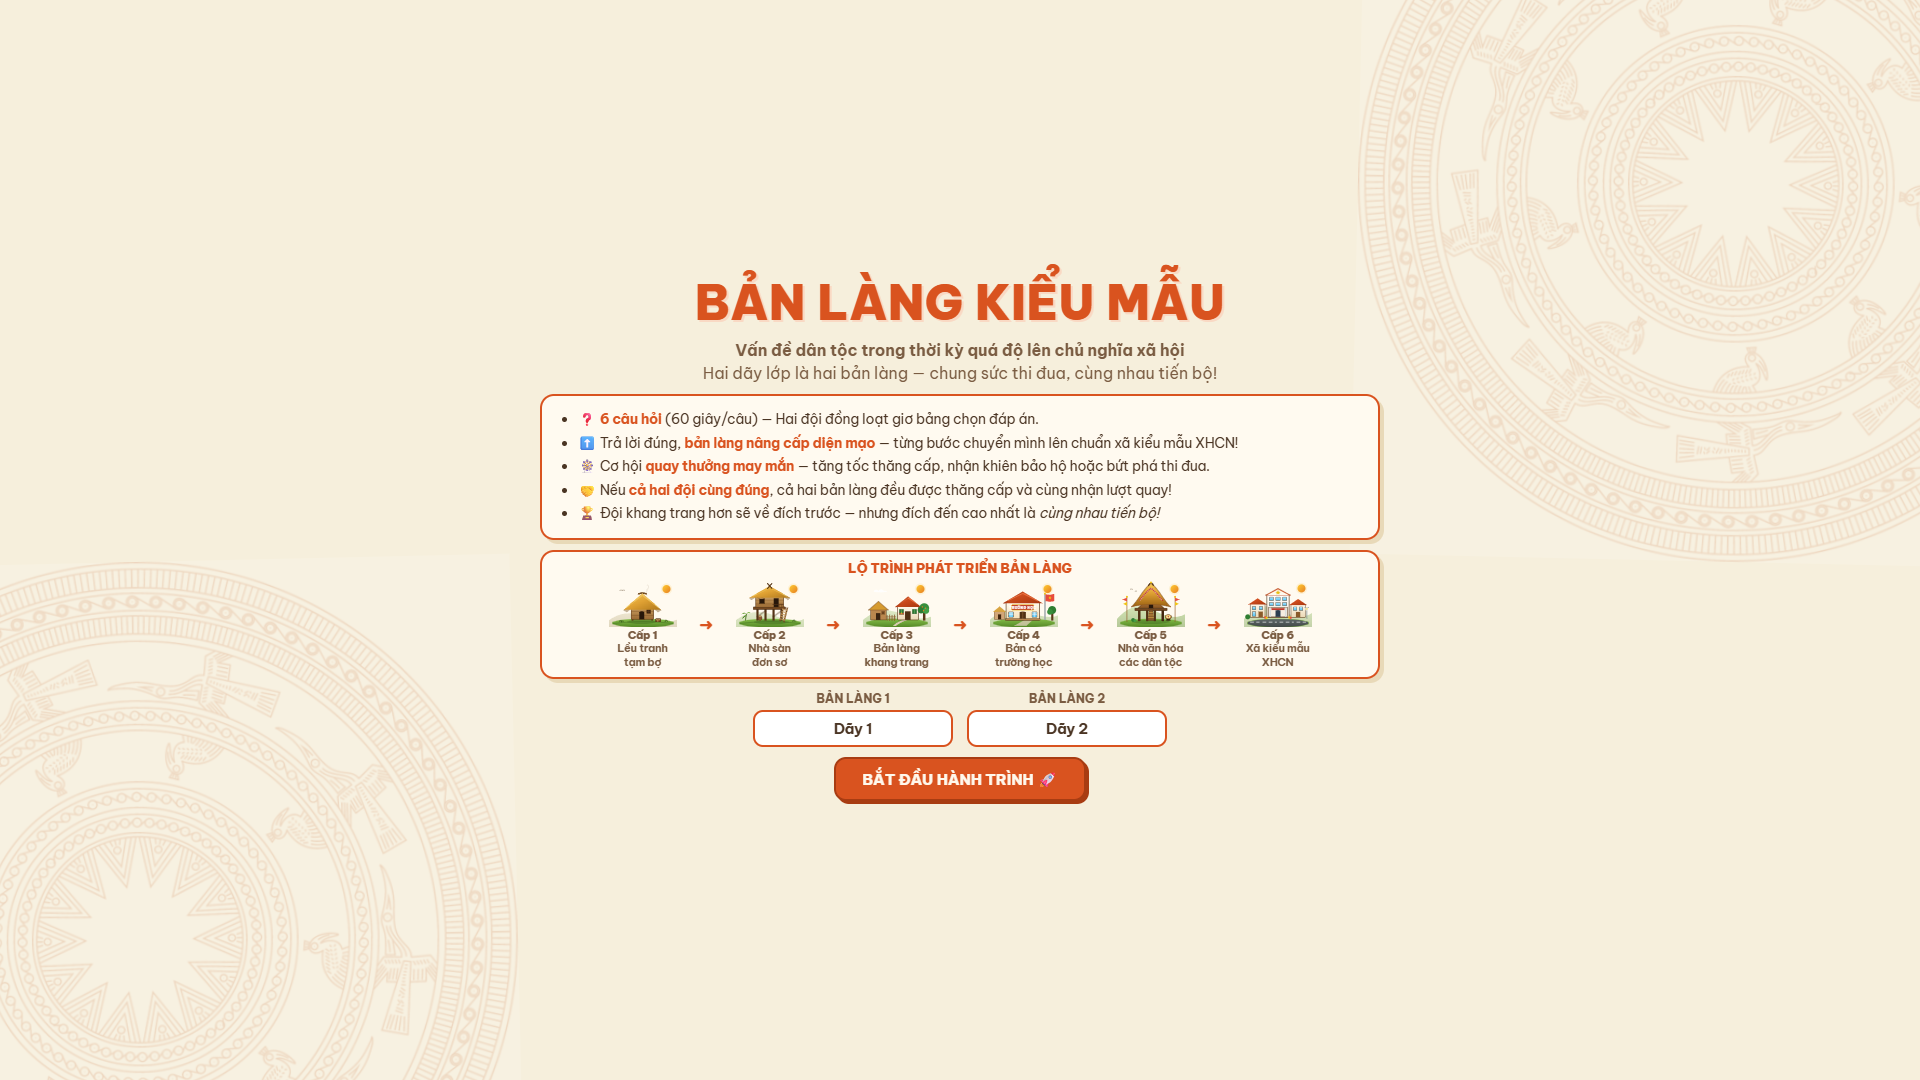
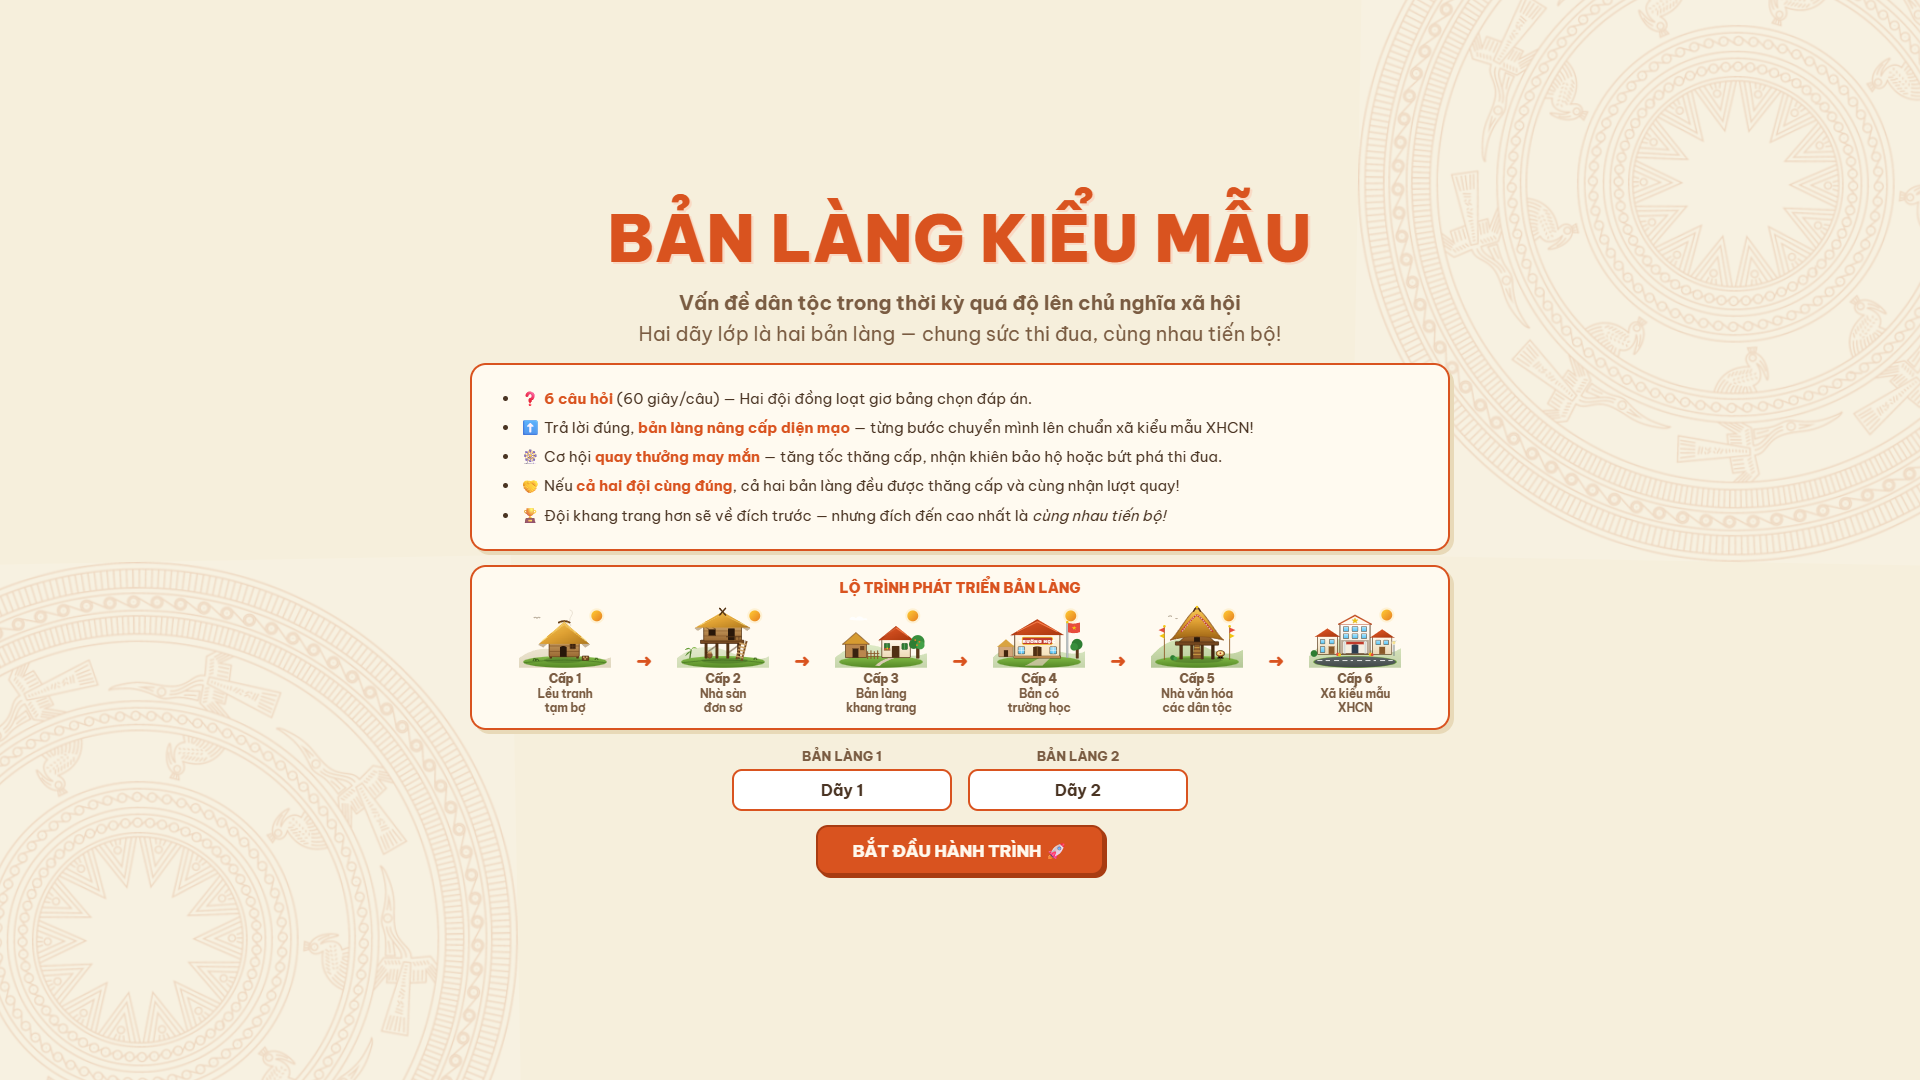
style: tối ưu tỷ lệ hiển thị màn hình bắt đầu, bổ sung mockup slide trình chiếu

Changed region(s): [[0.25, 0.1528, 0.7812, 0.825], [0.75, 0.6417, 0.7812, 0.6722]]

diff --git a/render_mockup.html b/render_mockup.html
@@ -10,13 +10,13 @@
     justify-content: center;
     align-items: center;
     min-height: 100vh;
-    padding: 60px 80px 90px;
+    padding: 40px 60px 80px;
     font-family: -apple-system, BlinkMacSystemFont, "Segoe UI", Roboto, sans-serif;
   }
 
   .macbook {
     position: relative;
-    width: 1400px;
+    width: 1320px;
     display: flex;
     flex-direction: column;
     align-items: center;
@@ -25,15 +25,15 @@
   /* --- SCREEN LID --- */
   .lid {
     position: relative;
-    width: 1200px;
-    height: 750px;
-    background: #0f1012;
-    border-radius: 20px 20px 4px 4px;
-    padding: 14px 14px 20px 14px;
+    width: 1220px;
+    height: 708px;
+    background: #18191b;
+    border-radius: 18px 18px 3px 3px;
+    padding: 10px 10px 14px 10px;
     box-shadow:
-      inset 0 0 0 1.5px #484b50,
-      inset 0 1.5px 0 0.5px rgba(255,255,255,0.25),
-      0 0 1px 1px rgba(0,0,0,0.6);
+      inset 0 0 0 1px #3a3d42,
+      inset 0 1px 0 0.5px rgba(255,255,255,0.3),
+      0 0 1px 1px rgba(0,0,0,0.5);
     display: flex;
     flex-direction: column;
     align-items: center;
@@ -42,51 +42,49 @@
   /* Display bezel & screen */
   .screen-frame {
     position: relative;
-    width: 100%;
-    height: 100%;
-    border-radius: 10px 10px 4px 4px;
+    width: 1200px;
+    height: 675px;
+    border-radius: 10px;
     overflow: hidden;
-    background: #000;
-    box-shadow: inset 0 0 0 1px rgba(255,255,255,0.06);
+    background: #f6efdc;
   }
 
   .screen-frame img {
     width: 100%;
     height: 100%;
-    object-fit: contain;
-    background: #f6efdc;
+    object-fit: cover;
     display: block;
   }
 
   /* Camera notch */
   .camera-notch {
     position: absolute;
-    top: 14px;
+    top: 10px;
     left: 50%;
     transform: translateX(-50%);
-    width: 130px;
-    height: 16px;
-    background: #0f1012;
-    border-bottom-left-radius: 8px;
-    border-bottom-right-radius: 8px;
+    width: 110px;
+    height: 14px;
+    background: #18191b;
+    border-bottom-left-radius: 7px;
+    border-bottom-right-radius: 7px;
     z-index: 10;
     display: flex;
     align-items: center;
     justify-content: center;
-    gap: 8px;
+    gap: 7px;
   }
   .lens {
-    width: 6px;
-    height: 6px;
+    width: 5px;
+    height: 5px;
     border-radius: 50%;
-    background: #040810;
-    box-shadow: inset 0 0 2px #1e3a60, 0 0 1px rgba(255,255,255,0.2);
+    background: #020509;
+    box-shadow: inset 0 0 1.5px #1e3a60, 0 0 1px rgba(255,255,255,0.25);
   }
   .sensor {
-    width: 3.5px;
-    height: 3.5px;
+    width: 3px;
+    height: 3px;
     border-radius: 50%;
-    background: #081208;
+    background: #051008;
     box-shadow: 0 0 1px rgba(0,255,100,0.4);
   }
 
@@ -95,11 +93,11 @@
     position: absolute;
     inset: 0;
     background: linear-gradient(
-      128deg,
-      rgba(255, 255, 255, 0.16) 0%,
-      rgba(255, 255, 255, 0.08) 22%,
-      rgba(255, 255, 255, 0.02) 36%,
-      transparent 45%
+      126deg,
+      rgba(255, 255, 255, 0.18) 0%,
+      rgba(255, 255, 255, 0.08) 20%,
+      rgba(255, 255, 255, 0.015) 34%,
+      transparent 42%
     );
     pointer-events: none;
     z-index: 5;
@@ -107,26 +105,25 @@
 
   /* --- HINGE --- */
   .hinge {
-    width: 340px;
-    height: 8px;
-    background: linear-gradient(180deg, #0a0a0c 0%, #1c1d20 100%);
+    width: 320px;
+    height: 7px;
+    background: linear-gradient(180deg, #0e0f11 0%, #1e1f22 100%);
     border-radius: 0 0 3px 3px;
     margin-top: -2px;
     z-index: 2;
-    box-shadow: inset 0 1px 1px rgba(0,0,0,0.8);
   }
 
   /* --- BASE / CHASSIS --- */
   .base {
     position: relative;
-    width: 1380px;
-    height: 22px;
-    background: linear-gradient(180deg, #e1e4e8 0%, #bcc1c8 45%, #8f949c 85%, #6a6e75 100%);
+    width: 1300px;
+    height: 20px;
+    background: linear-gradient(180deg, #e4e7eb 0%, #bcc1c8 45%, #8c929a 85%, #666a72 100%);
     border-radius: 2px 2px 14px 14px;
     margin-top: -4px;
     z-index: 3;
     box-shadow:
-      inset 0 1.5px 0 rgba(255,255,255,0.9),
+      inset 0 1.5px 0 rgba(255,255,255,0.95),
       inset 0 -1px 2px rgba(0,0,0,0.4),
       0 2px 4px rgba(0,0,0,0.3);
   }
@@ -137,12 +134,12 @@
     top: 0;
     left: 50%;
     transform: translateX(-50%);
-    width: 150px;
-    height: 7px;
-    background: linear-gradient(180deg, #6c7077 0%, #a2a6ad 100%);
-    border-bottom-left-radius: 6px;
-    border-bottom-right-radius: 6px;
-    box-shadow: inset 0 1px 2px rgba(0,0,0,0.5);
+    width: 140px;
+    height: 6px;
+    background: linear-gradient(180deg, #5c6068 0%, #9a9ea6 100%);
+    border-bottom-left-radius: 5px;
+    border-bottom-right-radius: 5px;
+    box-shadow: inset 0 1px 1.5px rgba(0,0,0,0.5);
   }
 
   /* Feet */
@@ -152,11 +149,11 @@
     width: 100%;
     display: flex;
     justify-content: space-between;
-    padding: 0 90px;
+    padding: 0 80px;
     z-index: 1;
   }
   .foot {
-    width: 48px;
+    width: 44px;
     height: 4px;
     background: #1c1d1f;
     border-radius: 3px;
@@ -165,9 +162,9 @@
   /* --- REALISTIC SHADOW --- */
   .shadow-wrap {
     position: absolute;
-    bottom: -45px;
-    width: 1420px;
-    height: 70px;
+    bottom: -40px;
+    width: 1340px;
+    height: 65px;
     z-index: 0;
     pointer-events: none;
   }
@@ -176,7 +173,7 @@
     top: 0;
     left: 40px;
     right: 40px;
-    height: 18px;
+    height: 16px;
     background: rgba(30, 20, 10, 0.55);
     border-radius: 50%;
     filter: blur(8px);
@@ -184,12 +181,12 @@
   .ambient-shadow {
     position: absolute;
     top: 4px;
-    left: 20px;
-    right: 20px;
-    height: 45px;
-    background: rgba(50, 32, 18, 0.32);
+    left: 15px;
+    right: 15px;
+    height: 40px;
+    background: rgba(50, 32, 18, 0.3);
     border-radius: 50%;
-    filter: blur(24px);
+    filter: blur(22px);
   }
 </style>
 </head>

diff --git a/index.html b/index.html
@@ -31,20 +31,20 @@ p,li,.rules,.opt,#q-text,#end-msg{text-wrap:pretty;}
 .screen.active{display:block; animation:screenFade .25s ease-out;}
 @keyframes screenFade{from{opacity:0; transform:translateY(6px);} to{opacity:1; transform:translateY(0);}}
 /* ---------- START ---------- */
-#screen-start{text-align:center; padding:14px 20px 20px;}
+#screen-start{text-align:center; padding:20px 24px 26px;}
 #screen-start.active{display:flex; flex-direction:column; justify-content:center; align-items:center; min-height:100vh;}
-#screen-start h1{font-size:clamp(28px,4.2vw,48px); text-shadow:2px 2px 0 #f9d9c4; margin-bottom:2px;}
-.subtitle{font-size:clamp(13px,1.3vw,16px); color:var(--ink-soft); margin:4px auto 10px; max-width:840px; line-height:1.4; text-wrap:balance;}
-.rules{background:var(--card); border:2.5px solid var(--orange); border-radius:14px; padding:10px 20px;
-  max-width:840px; width:100%; margin:0 auto 10px; text-align:left; box-shadow:4px 4px 0 #e8d9b8;}
-.rules li{margin:4px 0 4px 16px; line-height:1.45; font-size:13.5px; text-wrap:balance;}
+#screen-start h1{font-size:clamp(38px,5.8vw,64px); text-shadow:2px 2px 0 #f9d9c4; margin-bottom:2px;}
+.subtitle{font-size:clamp(15px,1.9vw,20px); color:var(--ink-soft); margin:6px auto 14px; max-width:980px; line-height:1.55; text-wrap:balance;}
+.rules{background:var(--card); border:2.5px solid var(--orange); border-radius:16px; padding:16px 28px;
+  max-width:980px; width:100%; margin:0 auto 14px; text-align:left; box-shadow:4px 4px 0 #e8d9b8;}
+.rules li{margin:6px 0 6px 20px; line-height:1.55; font-size:15px; text-wrap:balance;}
 .rules b{color:var(--orange);}
-.team-inputs{display:flex; gap:14px; justify-content:center; flex-wrap:wrap; margin:2px 0 10px;}
-.team-inputs label{font-weight:800; text-transform:uppercase; font-size:12px; color:var(--ink-soft);}
-.team-inputs input{display:block; margin-top:4px; padding:7px 12px; font-size:14.5px; font-weight:700;
-  font-family:inherit; border:2.5px solid var(--orange); border-radius:10px; background:#fff; color:var(--ink); width:200px; text-align:center;}
+.team-inputs{display:flex; gap:16px; justify-content:center; flex-wrap:wrap; margin:4px 0 14px;}
+.team-inputs label{font-weight:800; text-transform:uppercase; font-size:13px; color:var(--ink-soft);}
+.team-inputs input{display:block; margin-top:5px; padding:9px 16px; font-size:16px; font-weight:700;
+  font-family:inherit; border:2.5px solid var(--orange); border-radius:10px; background:#fff; color:var(--ink); width:220px; text-align:center;}
 .btn{background:var(--orange); color:#fff8ec; border:2.5px solid var(--orange-d); border-radius:12px;
-  padding:10px 26px; font-family:inherit; font-weight:800; font-size:15px; text-transform:uppercase;
+  padding:12px 34px; font-family:inherit; font-weight:800; font-size:16.5px; text-transform:uppercase;
   cursor:pointer; box-shadow:3px 3px 0 var(--orange-d); transition:transform .12s;}
 .btn:hover{transform:translateY(-2px) scale(1.02);}
 .btn:active{transform:translateY(2px); box-shadow:1px 1px 0 var(--orange-d);}
@@ -179,14 +179,14 @@ p,li,.rules,.opt,#q-text,#end-msg{text-wrap:pretty;}
 #end-detail{text-align:center; font-size:17px; line-height:1.8; margin:16px 0;}
 #end-msg{background:var(--card); border:3px solid var(--gold); border-radius:16px; padding:18px; font-size:16px; line-height:1.8; text-align:center; margin:18px 0;}
 /* dải lộ trình nâng cấp ở màn hình bắt đầu */
-#tier-preview{max-width:840px; width:100%; margin:0 auto 10px; background:var(--card); border:2.5px solid var(--orange); border-radius:14px; padding:8px 12px; box-shadow:4px 4px 0 #e8d9b8;}
-.tp-title{font-weight:900; text-transform:uppercase; color:var(--orange); margin-bottom:5px; font-size:13px; text-wrap:balance;}
-.tp-row{display:flex; align-items:center; justify-content:center; gap:4px; flex-wrap:nowrap;}
+#tier-preview{max-width:980px; width:100%; margin:0 auto 14px; background:var(--card); border:2.5px solid var(--orange); border-radius:16px; padding:12px 16px; box-shadow:4px 4px 0 #e8d9b8;}
+.tp-title{font-weight:900; text-transform:uppercase; color:var(--orange); margin-bottom:8px; font-size:14px; text-wrap:balance;}
+.tp-row{display:flex; align-items:center; justify-content:center; gap:6px; flex-wrap:nowrap;}
 @media(max-width:860px){.tp-row{flex-wrap:wrap; gap:8px;}}
-.tp-card{width:105px; text-align:center; flex:0 1 auto;}
-.tp-card svg{width:100%; max-width:68px; height:auto; margin:0 auto; display:block;}
-.tp-name{font-size:10.5px; font-weight:700; margin-top:2px; line-height:1.25; min-height:28px; color:var(--ink-soft); text-wrap:balance; word-break:keep-all;}
-.tp-arrow{font-size:14px; color:var(--orange); font-weight:900; flex:none;}
+.tp-card{width:130px; text-align:center; flex:0 1 auto;}
+.tp-card svg{width:100%; max-width:92px; height:auto; margin:0 auto; display:block;}
+.tp-name{font-size:11.5px; font-weight:700; margin-top:4px; line-height:1.3; min-height:30px; color:var(--ink-soft); text-wrap:balance; word-break:keep-all;}
+.tp-arrow{font-size:16px; color:var(--orange); font-weight:900; flex:none;}
 .team .build-anim{font-size:60px;}
 .team .build-bar{max-width:230px; margin:8px auto 2px;}
 /* toast */

diff --git a/render_browser_mockup.html b/render_browser_mockup.html
@@ -1,0 +1,105 @@
+<!DOCTYPE html>
+<html>
+<head>
+<meta charset="UTF-8">
+<style>
+  * { box-sizing: border-box; margin: 0; padding: 0; }
+  body {
+    background: transparent;
+    display: flex;
+    justify-content: center;
+    align-items: center;
+    min-height: 100vh;
+    padding: 50px 70px 80px;
+    font-family: -apple-system, BlinkMacSystemFont, "Segoe UI", Roboto, sans-serif;
+  }
+
+  .window {
+    position: relative;
+    width: 1240px;
+    background: #fffdfa;
+    border-radius: 18px;
+    overflow: hidden;
+    box-shadow:
+      0 26px 60px rgba(50, 30, 15, 0.22),
+      0 8px 20px rgba(50, 30, 15, 0.12),
+      0 0 0 1px rgba(74, 52, 35, 0.12);
+  }
+
+  .titlebar {
+    height: 48px;
+    background: #eedfc7;
+    border-bottom: 1.5px solid #dfcca9;
+    display: flex;
+    align-items: center;
+    padding: 0 18px;
+    gap: 16px;
+  }
+
+  .traffic-lights {
+    display: flex;
+    gap: 8px;
+  }
+  .dot {
+    width: 13px;
+    height: 13px;
+    border-radius: 50%;
+  }
+  .dot.red { background: #ff5f56; border: 1px solid #e0443e; }
+  .dot.yellow { background: #ffbd2e; border: 1px solid #dea123; }
+  .dot.green { background: #27c93f; border: 1px solid #1aab29; }
+
+  .address-bar {
+    flex: 1;
+    max-width: 580px;
+    margin: 0 auto;
+    height: 30px;
+    background: rgba(255,255,255,0.85);
+    border: 1px solid #d5c09a;
+    border-radius: 8px;
+    display: flex;
+    align-items: center;
+    justify-content: center;
+    gap: 8px;
+    font-size: 13px;
+    font-weight: 600;
+    color: #5a4533;
+    padding: 0 12px;
+  }
+  .lock-icon { font-size: 11px; opacity: 0.7; }
+  .site-url { letter-spacing: 0.3px; }
+
+  .content-frame {
+    width: 100%;
+    height: 697px; /* 1240 / (1920/1080) */
+    background: #f6efdc;
+  }
+  .content-frame img {
+    width: 100%;
+    height: 100%;
+    object-fit: cover;
+    display: block;
+  }
+</style>
+</head>
+<body>
+
+<div class="window">
+  <div class="titlebar">
+    <div class="traffic-lights">
+      <div class="dot red"></div>
+      <div class="dot yellow"></div>
+      <div class="dot green"></div>
+    </div>
+    <div class="address-bar">
+      <span class="lock-icon">🔒</span>
+      <span class="site-url">ban-lang-kieu-mau.vercel.app</span>
+    </div>
+  </div>
+  <div class="content-frame">
+    <img src="screen_1080p.png" alt="Game Start">
+  </div>
+</div>
+
+</body>
+</html>
